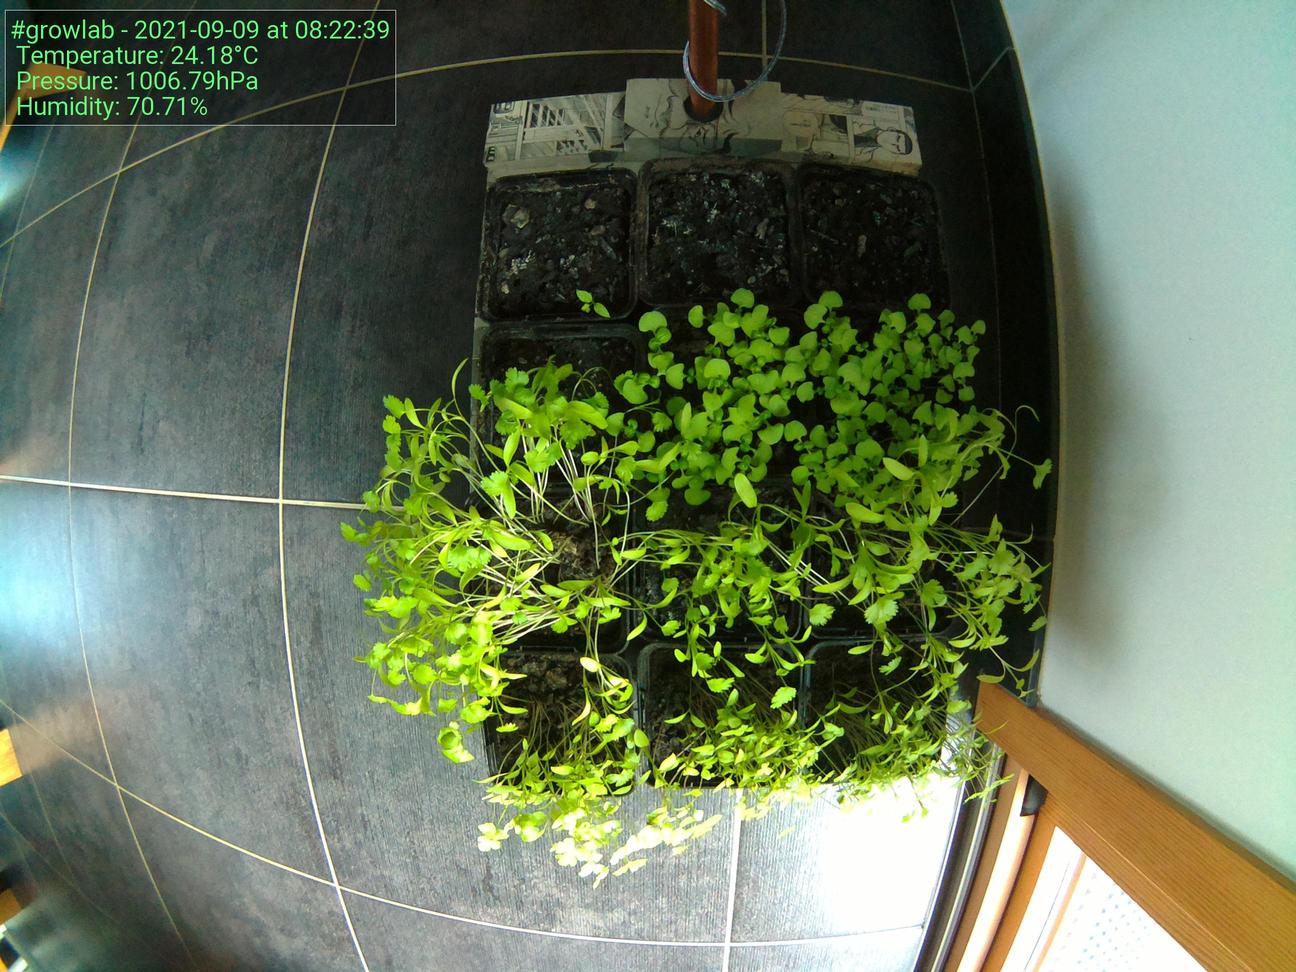
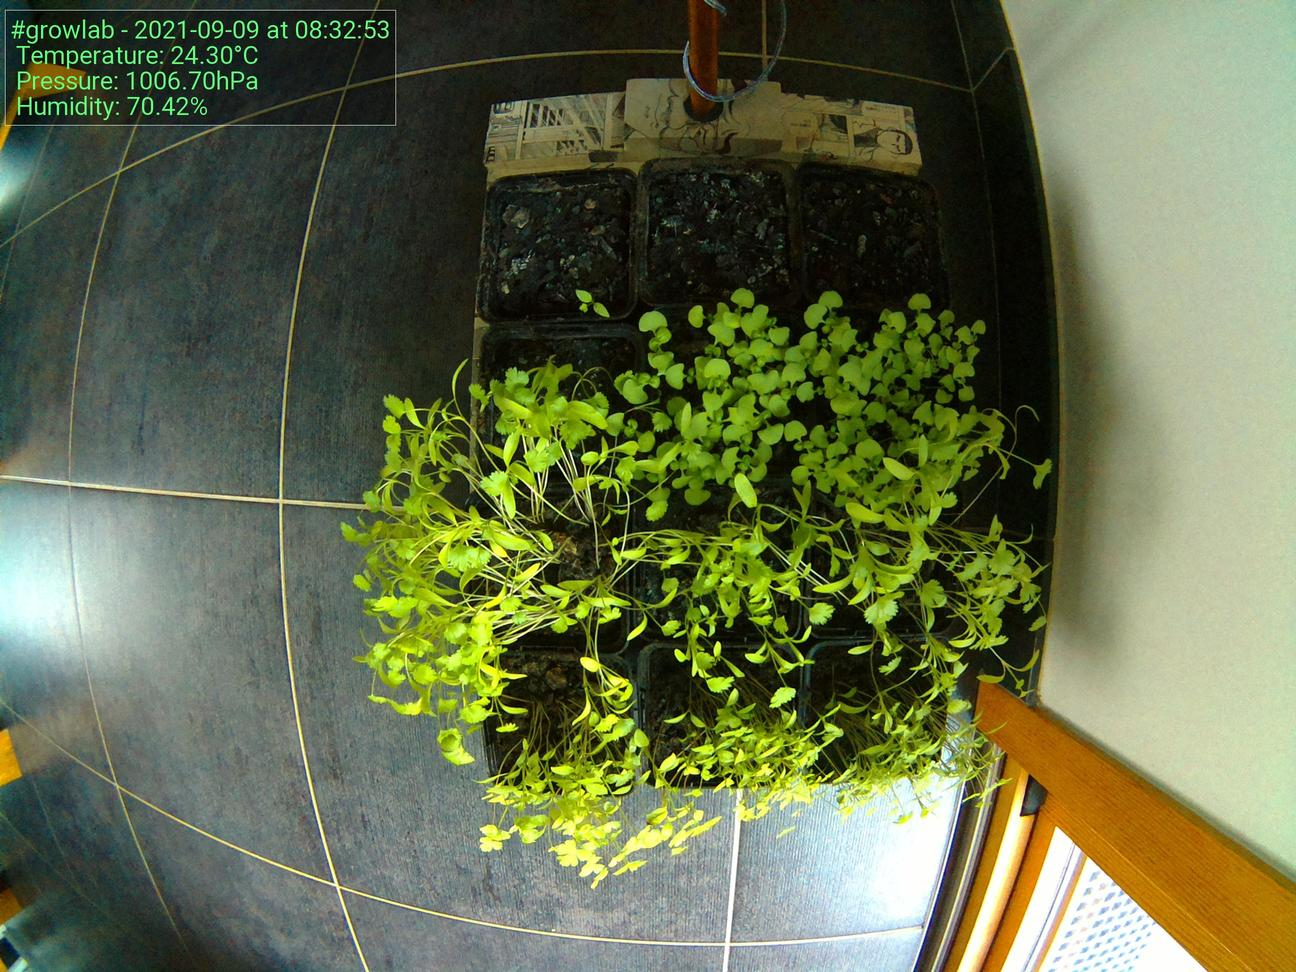
Update images at Thu  9 Sep 08:33:05 CEST 2021

diff --git a/docs/index.html b/docs/index.html
@@ -52,19 +52,19 @@
                             </tr>
                             <tr>
                                 <td>Time</td>
-                                <td>08:22:39</td>
+                                <td>08:32:53</td>
                             </tr>
                             <tr>
                                 <td>Temperature</td>
-                                <td>24.18°C</td>
+                                <td>24.30°C</td>
                             </tr>
                             <tr>
                                 <td>Humidity</td>
-                                <td>70.71%</td>
+                                <td>70.42%</td>
                             </tr>
                             <tr>
                                 <td>Pressure</td>
-                                <td>1006.79hPa</td>
+                                <td>1006.70hPa</td>
                             </tr>
                         </tbody>
                     </table>
@@ -72,7 +72,7 @@
 
                 <h5>Latest image</h5>
                 <div style="width: 85%;">
-                            <img class="figure-img img-fluid rounded" src="./preview.jpg?uid=1631168567.7812643">
+                            <img class="figure-img img-fluid rounded" src="./preview.jpg?uid=1631169183.4967184">
                 </div>
             </div>
         </div>
